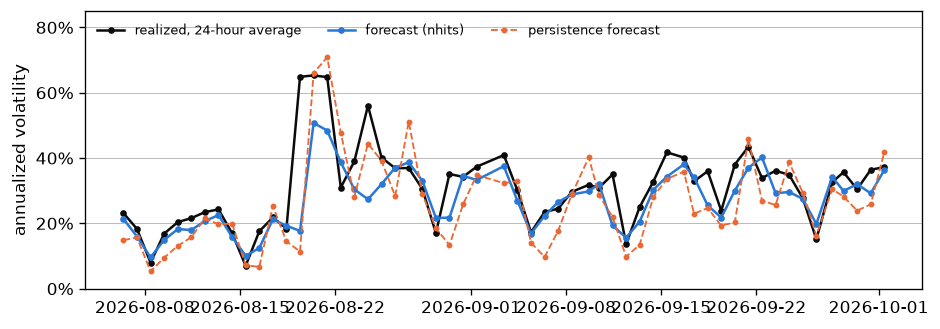
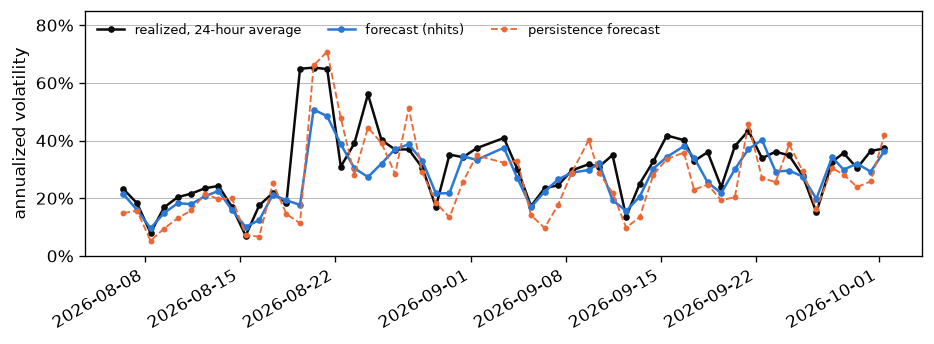
README: the commit claim says where it did not hold and that late days stay in the scores, the audit reads commit times only, three terms glossed where the first reader met them, the Tests section says checks, the figure's date labels no longer overlap, the calibration pass sentence says what passed
Median, origin, and the error's definition were used before they were
defined; the pre-outcome claim was stated as absolute; the README named
a push-history check that does not exist; and the pass sentence
overstated a result that clears the corrected threshold by three
ten-thousandths.

diff --git a/src/fbench/daily_run.py b/src/fbench/daily_run.py
@@ -262,6 +262,7 @@ def _fig_daily(ev, model):
     ax.yaxis.set_major_formatter(matplotlib.ticker.PercentFormatter(1.0, decimals=0))
     ax.grid(axis="y", lw=0.5)
     ax.legend(frameon=False, ncol=3, loc="upper left", fontsize=8)
+    fig.autofmt_xdate()  # dated ticks angled so they cannot overlap
     path = RESULTS_DIR / "figures" / "fig_live_daily.png"
     path.parent.mkdir(parents=True, exist_ok=True)
     fig.savefig(path, dpi=120, bbox_inches="tight")
@@ -399,9 +400,8 @@ def calibration_lines(ev, days):
                     f"rejects {parts}, short of the "
                     f"{CALIBRATION_PERSISTENCE_DAYS} consecutive days needed "
                     f"to flag it. {method}", ""]
-        return [f"The calibration check passes. {method} No model's "
-                f"average coverage sits farther from {target} than its "
-                f"day-to-day spread would explain.", ""]
+        return [f"The calibration check passes. {method} No model crossed "
+                f"that threshold.", ""]
 
     parts = "; ".join(_figures(m, test_results) for m in sorted(flagged))
     return [f"The calibration check flags these models, whose average "

diff --git a/README.md b/README.md
@@ -35,9 +35,10 @@ spikes on the day they arrive.
 
 The daily record scores each day's average volatility, the mean of a
 model's 24 hourly median forecasts against the mean of the 24 hourly
-values that occurred. The error is measured on the log scale, which makes it a
-ratio between forecast and realized value, so a forecast 20% off counts the same
-on a quiet day as on a spike day. A day is fully resolved once all 24
+values that occurred. The median forecast is the middle of the band of
+values a model gives for each hour. The error is the log of realized
+over forecast value, sign ignored, so a forecast 20% off counts the
+same on a quiet day as on a spike day. A day is fully resolved once all 24
 of its hours have been observed. Over the 46 fully resolved days as of
 2026-09-22, N-HiTS, the leading model, had an average error of 0.19 on
 that scale. Persistence's average error was 0.31 over its 49 days. Lower
@@ -54,8 +55,9 @@ interval is stated under it.
 
 The daily record is the live test. The backtest is a one-time run over
 the 365 days of history before 2026-08-05. It is kept as the reference
-(pinned) rather than re-run. It used a forecast origin
-every second day, 183 origins in all. Its best model, N-HiTS, scored a
+(pinned) rather than re-run. It used a forecast origin every second
+day, 183 origins in all. An origin is the point in time a forecast is
+made from. Its best model, N-HiTS, scored a
 mean pinball loss of 0.0959 on the log scale, averaged over forecast
 horizons of 1 to 24 hours ahead. The persistence baseline scored 0.1180
 on the same origins. Pinball loss scores the whole forecast band, and
@@ -87,27 +89,28 @@ those bounds.
 
 Each day, a scheduled run commits every model's forecast to git before
 the first of its 24 target hours has ended, so the history proves each
-forecast was made before its outcome was known. Each daily
-run audits those commit times against the git history and lists the
-exceptions in the daily record.
+forecast was made before its outcome was known. Each daily run audits
+those commit times against the git history and lists the days whose
+commit came late in the daily record. Those days stay in the scores,
+and the list records them.
 
-Scoring is rolling-origin validation. Each forecast is made from one
-point in time, its origin, using only data before it, and the origin
-steps forward for the next forecast. Every score is therefore out of
+Scoring is rolling-origin validation. Each forecast is made from its
+origin using only data before it, and the origin steps forward for the
+next forecast. Every score is therefore out of
 sample in time, the same position a live forecast is in.
 
 The band is scored two ways, pinball loss and calibration, because a model can be
 accurate with a band too narrow, or well-banded and inaccurate.
-Pinball loss scores accuracy. It measures each of the five quantiles by its
-distance from the realized value and is lowest on average only when each
-quantile sits at its true value, so a model cannot improve it by hedging
-wide or narrow. Calibration scores whether the bands are sized correctly.
+Pinball loss scores accuracy. It measures each of the five quantiles by
+its distance from the realized value. It is lowest on average only when
+each quantile sits at its true value, so a model cannot improve it by
+hedging wide or narrow. Calibration scores whether the bands are sized correctly.
 It counts how often the realized value landed inside the 90% band, the
 span between the 5% and 95% quantiles.
 
 Two baselines sit in the results tables beside the other six models.
 One is persistence. The other is a HAR model (heterogeneous autoregressive). 
-It is a least-squares regression model on the trailing day, week, and month averages
+It is a least-squares regression model on the last hour and the trailing day, week, and month averages
 of volatility. It is the published standard baseline for realized
 volatility. The skill column measures every model against persistence,
 and the table shows which models fail to beat it.
@@ -146,7 +149,7 @@ saved candle.
 | model | family |
 |---|---|
 | persistence, seasonal persistence | naive baselines, repeating the last hour or the same hour one day earlier |
-| HAR (plain and hour-of-day seasonal) | regression on the trailing day, week, and month averages (Corsi-style) |
+| HAR (plain and hour-of-day seasonal) | regression on the last hour and the trailing day, week, and month averages |
 | SARIMAX (1,0,1)(1,0,1,24) | classical autoregressive time-series model with a 24-hour seasonal cycle |
 | Prophet | trend plus daily and weekly cycles (Fourier seasonality) |
 | XGBoost | gradient-boosted trees, fit directly to each quantile level |
@@ -321,11 +324,11 @@ python -m pytest tests -q
 ```
 
 The suite checks the realized-volatility formula on a hand-built hour,
-proves features are strictly trailing (rewriting the future changes
-nothing in the past), enforces the adapter contract for every
-registered model, checks pinball loss against hand-computed values, and
-proves the backtest engine never hands a model data past its forecast
-origin. It also covers the calibration check described in the next
+checks that features are strictly trailing (rewriting the future
+changes nothing in the past), checks the fit-and-predict contract every
+registered model implements, checks pinball loss against hand-computed
+values, and confirms that the backtest engine never hands a model data
+past its forecast origin. It also covers the calibration check described in the next
 section: that a rejection streak shorter than three days is reported as
 pending rather than flagged, that the correction for testing several
 models at once scales with their number, and that a model whose daily
@@ -382,9 +385,9 @@ results table will stay noisy until the sample grows.
 
 The timing evidence for the forecast log is the commit history. Since
 2026-09-27 the commits are made by GitHub's runner on GitHub's clock.
-Before that they were made by a machine I control, with the GitHub
-push history as the independent record for those days. The audit in
-LIVE.md lists every exception.
+Before that they were made by a machine I control, and the audit reads
+commit times only, so those days depend on that machine's clock. The
+audit in LIVE.md lists every exception.
 
 The coverage columns in LIVE.md carry real uncertainty, because each day
 contributes about 24 dependent hourly rows. The calibration check above
